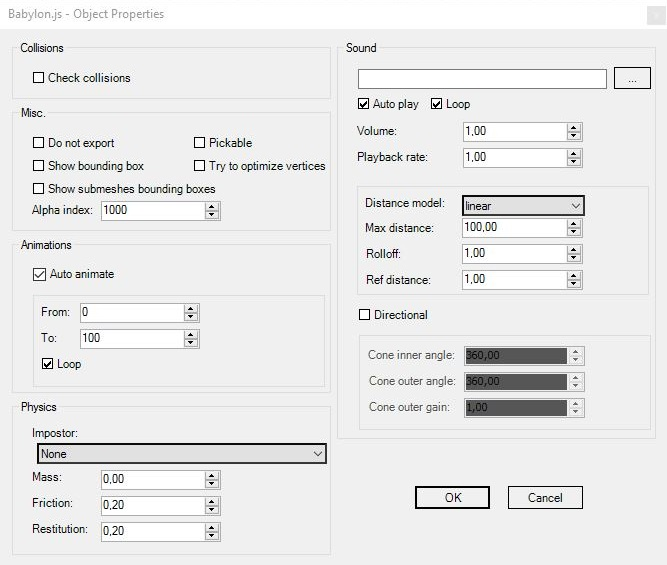
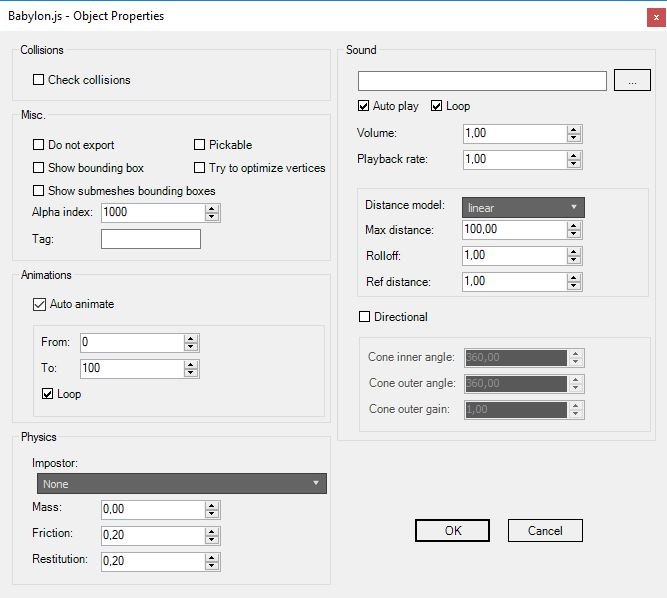
3DS Max exporter: update the Mesh, Camera, Light properties screenshots

diff --git a/content/resources/Exporter/3DSMax.md b/content/resources/Exporter/3DSMax.md
@@ -121,6 +121,7 @@ With this window, you can set the following properties:
 * __Show bounding box__: Display the bounding box of this object in the scene. False by default.
 * __Show submeshes bounding boxes__. Same as above. False by default.
 * __Alpha index__: Used to sort transparent meshes. The mesh with the bigger alpha index is rendered first (then the depth is taken into account). Default value is 1000.
+* __Tag__: Used to add a custom tag to this object. Empty by default.
 * __Auto animate__: All animations for this object will start when this object is being added to the scene. True by default.
 * __From/To/Loop__: The starting and ending frame for this object, and if the animation loops. Default values are 0, 100 and true.
 * __Impostor__: Add an impostor to this object. Default is none.
@@ -132,7 +133,7 @@ If you create a standard light and right click on it, select the menu Babylon ->
 
 ![Light properties](/img/exporters/3DSMax/8_light_properties_window.jpg)
 
-The options __Do not export__, and __animations__ are exactly the same as the Object properties window.
+The options __Do not export__, __Tag__ and __animations__ are exactly the same as the Object properties window.
 
 ## Camera properties 
 
@@ -144,6 +145,7 @@ In this window, you can choose the kind of camera you want to create in Babylon.
 * __Ellipsoid__: With collisions enabled, the camera will be wrapped in an ellipsoid, the size of which can be set here.
 * __Speed / inertia__: The speed and inertia of the camera. Default values are 1 and 0.9.
 * __Animations__: Same as in Object properties window. 
+* __Tag__: Same as in Object properties window. 
 
 ## The exporter window 
 
